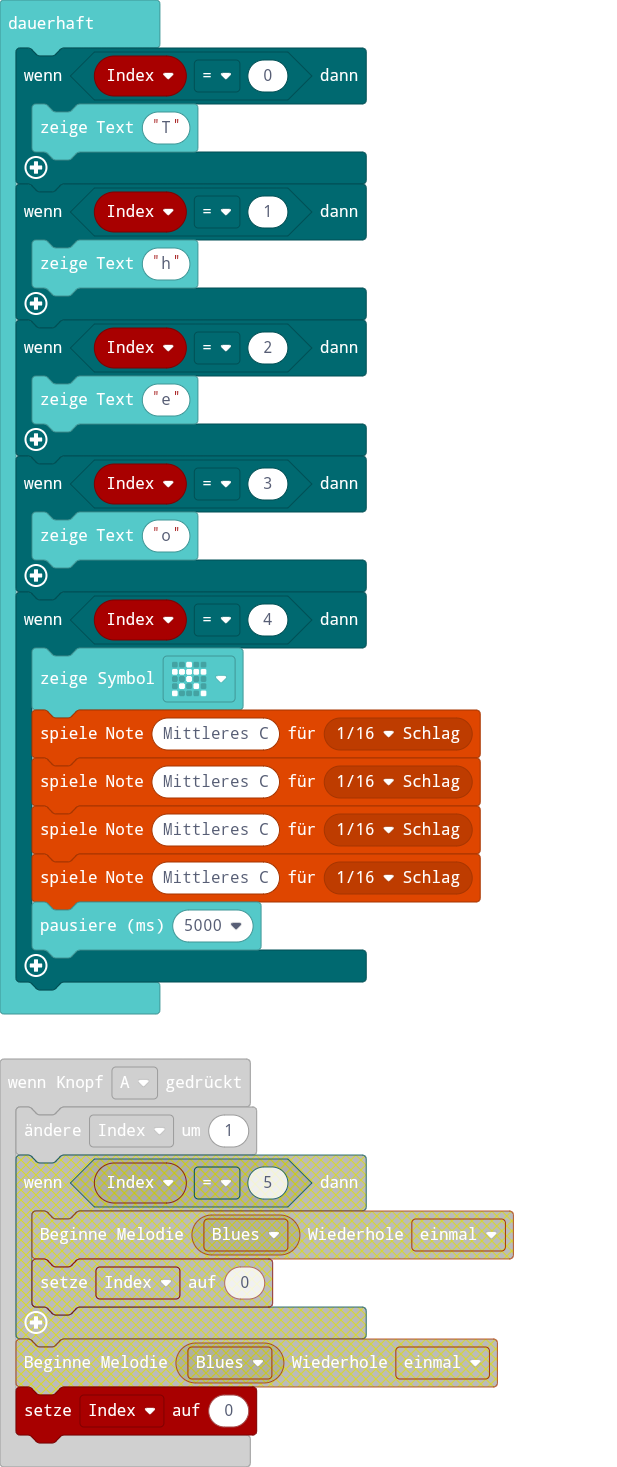
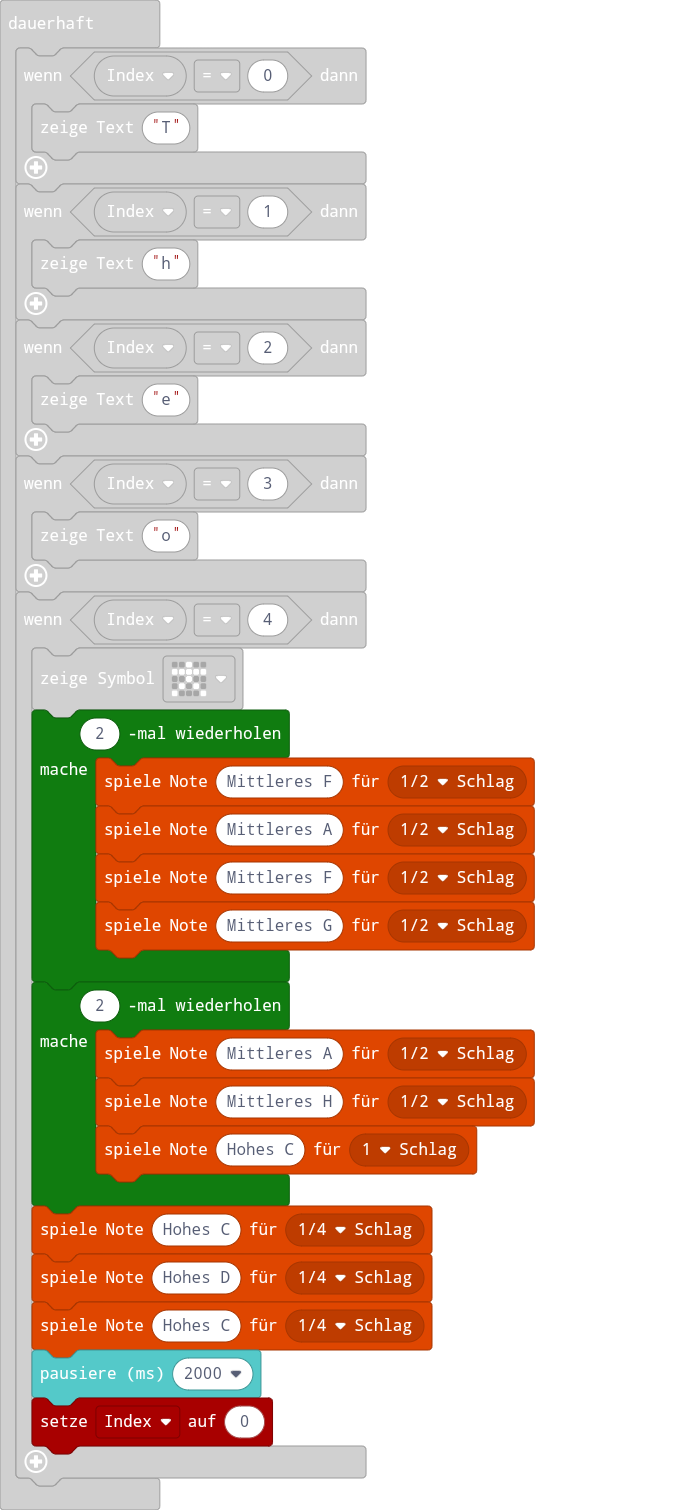
Aktualisiere main.blocks, main.ts

diff --git a/main.ts b/main.ts
@@ -17,11 +17,21 @@ basic.forever(function () {
     }
     if (Index == 4) {
         basic.showIcon(IconNames.StickFigure)
-        music.playTone(262, music.beat(BeatFraction.Sixteenth))
-        music.playTone(262, music.beat(BeatFraction.Sixteenth))
-        music.playTone(262, music.beat(BeatFraction.Sixteenth))
-        music.playTone(262, music.beat(BeatFraction.Sixteenth))
-        basic.pause(5000)
+        for (let index = 0; index < 2; index++) {
+            music.playTone(349, music.beat(BeatFraction.Half))
+            music.playTone(440, music.beat(BeatFraction.Half))
+            music.playTone(349, music.beat(BeatFraction.Half))
+            music.playTone(392, music.beat(BeatFraction.Half))
+        }
+        for (let index = 0; index < 2; index++) {
+            music.playTone(440, music.beat(BeatFraction.Half))
+            music.playTone(494, music.beat(BeatFraction.Half))
+            music.playTone(523, music.beat(BeatFraction.Whole))
+        }
+        music.playTone(523, music.beat(BeatFraction.Quarter))
+        music.playTone(587, music.beat(BeatFraction.Quarter))
+        music.playTone(523, music.beat(BeatFraction.Quarter))
+        basic.pause(2000)
         Index = 0
     }
 })
